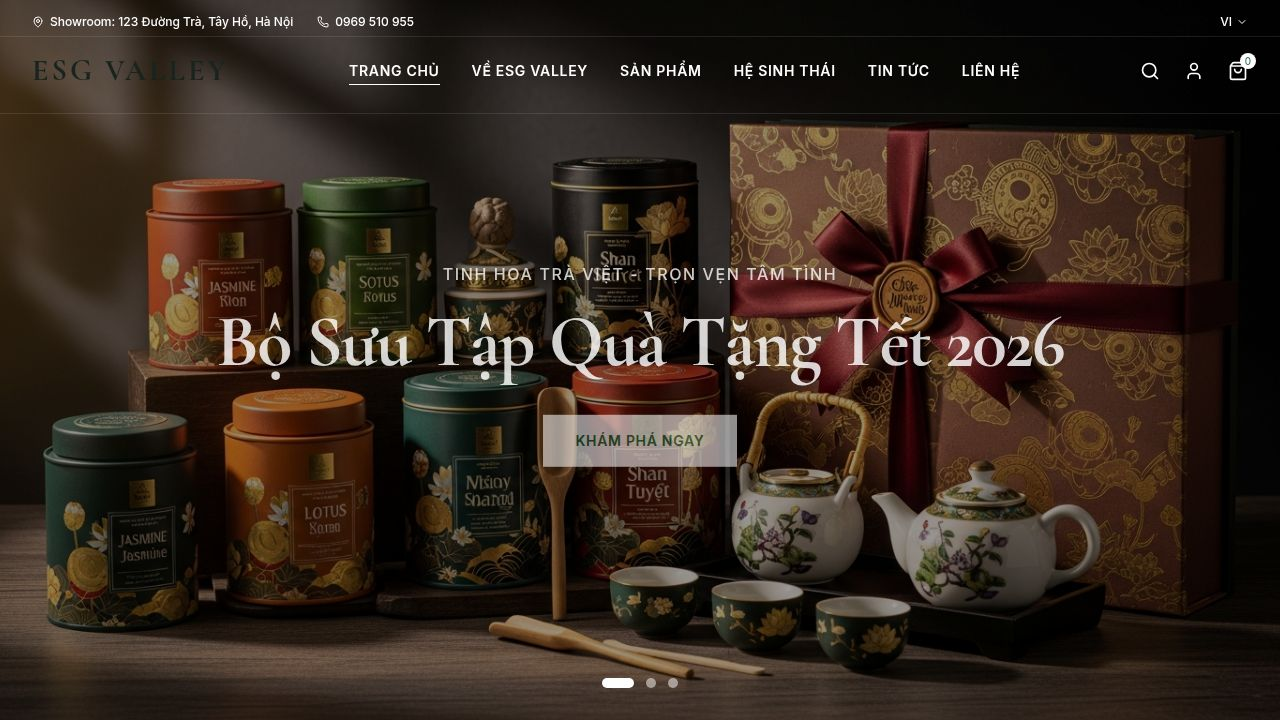
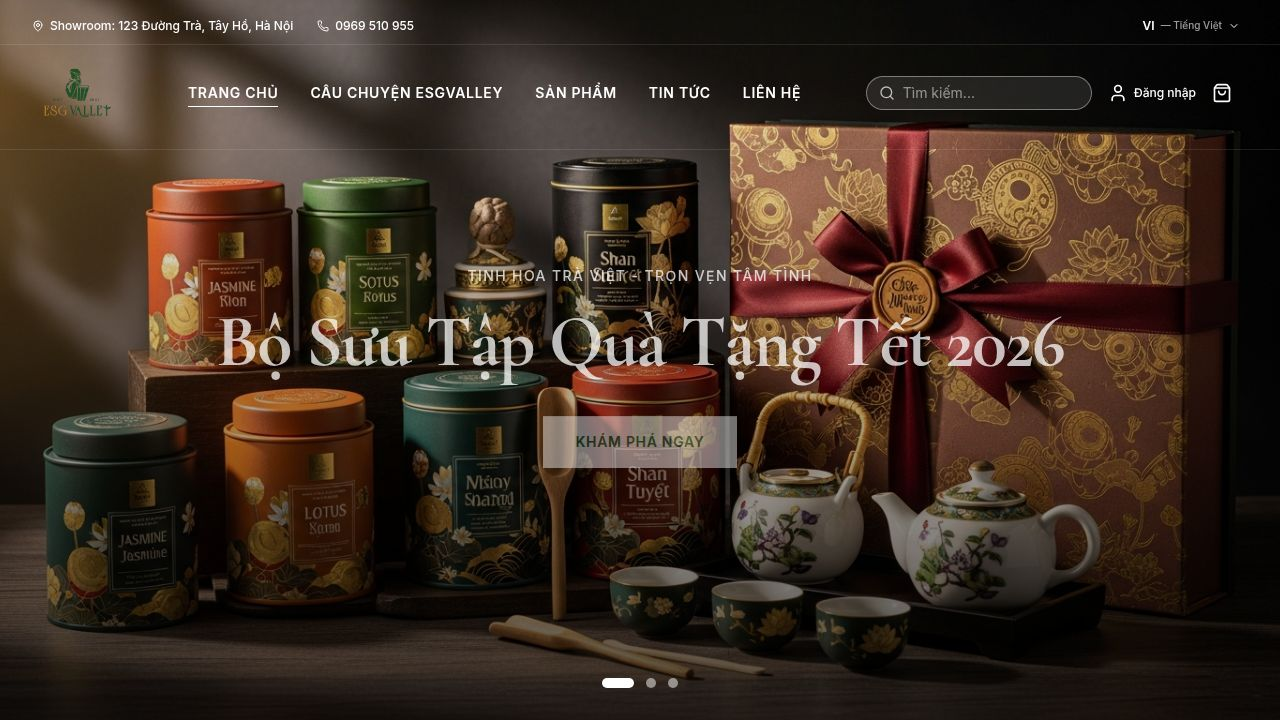
Add hover effect to display card details on image mouseover
Update Home.tsx to implement a new hover effect on image mosaic cards, revealing a styled card with title and description.

Replit-Commit-Author: Agent
Replit-Commit-Session-Id: 393418b7-ca91-409f-8b2f-f4fb9c09fb83
Replit-Commit-Checkpoint-Type: full_checkpoint
Replit-Commit-Event-Id: 2965d947-d1b5-4688-bf19-3bccabd1f1f4
Replit-Commit-Screenshot-Url: https://storage.googleapis.com/screenshot-production-us-central1/6f4f4c7e-fa0c-4de9-baeb-699de7e36ad3/393418b7-ca91-409f-8b2f-f4fb9c09fb83/BxhU3Tt
Replit-Helium-Checkpoint-Created: true

diff --git a/artifacts/esg-valley/src/pages/Home.tsx b/artifacts/esg-valley/src/pages/Home.tsx
@@ -261,10 +261,13 @@ export default function Home() {
                 className="w-full h-72 md:h-full object-cover group-hover:scale-105 transition-transform duration-500"
                 style={{ minHeight: "360px" }}
               />
-              <div className="absolute inset-0 bg-gradient-to-t from-black/60 via-transparent to-transparent" />
-              <div className="absolute bottom-5 left-5 right-5">
-                <p className="text-white font-display text-lg font-bold leading-snug">Vùng Nguyên Liệu</p>
-                <p className="text-white/70 text-xs mt-1">Nơi những búp chè non xanh bắt đầu hành trình</p>
+              <div className="absolute inset-0 bg-gradient-to-t from-black/40 via-transparent to-transparent group-hover:from-black/20 transition-all duration-500" />
+              <div className="absolute bottom-5 left-5 right-5 translate-y-2 group-hover:translate-y-0 transition-transform duration-400">
+                <div className="bg-[#FFF9C4]/95 rounded-xl p-4 shadow-lg opacity-0 group-hover:opacity-100 transition-opacity duration-400">
+                  <p className="text-primary font-display text-base font-bold leading-snug mb-1">Vùng Nguyên Liệu</p>
+                  <p className="text-foreground/80 text-xs leading-relaxed">Nơi những búp chè non xanh bắt đầu hành trình – đất trời và con người vùng cao cùng nhau nuôi dưỡng từng mầm non xanh mát.</p>
+                </div>
+                <p className="text-white font-display text-lg font-bold leading-snug group-hover:opacity-0 transition-opacity duration-300 absolute bottom-4 left-0">Vùng Nguyên Liệu</p>
               </div>
             </motion.div>
 
@@ -279,9 +282,13 @@ export default function Home() {
                   alt="Câu chuyện"
                   className="w-full h-44 object-cover group-hover:scale-105 transition-transform duration-500"
                 />
-                <div className="absolute inset-0 bg-gradient-to-t from-black/50 to-transparent" />
-                <div className="absolute bottom-4 left-4">
-                  <p className="text-white font-display text-base font-bold">Chế Biến Thủ Công</p>
+                <div className="absolute inset-0 bg-gradient-to-t from-black/40 to-transparent group-hover:from-black/20 transition-all duration-500" />
+                <div className="absolute bottom-3 left-3 right-3 translate-y-1 group-hover:translate-y-0 transition-transform duration-400">
+                  <div className="bg-[#FFF9C4]/95 rounded-xl p-3 shadow-lg opacity-0 group-hover:opacity-100 transition-opacity duration-400">
+                    <p className="text-primary font-display text-sm font-bold mb-1">Chế Biến Thủ Công</p>
+                    <p className="text-foreground/80 text-xs leading-relaxed">Từng công đoạn được thực hiện tỉ mỉ bởi đôi bàn tay thợ lành nghề, giữ trọn hương vị nguyên bản.</p>
+                  </div>
+                  <p className="text-white font-display text-base font-bold group-hover:opacity-0 transition-opacity duration-300 absolute bottom-3 left-0">Chế Biến Thủ Công</p>
                 </div>
               </div>
               <div className="relative rounded-sm overflow-hidden group flex-1">
@@ -290,9 +297,13 @@ export default function Home() {
                   alt="Câu chuyện 2"
                   className="w-full h-44 object-cover group-hover:scale-105 transition-transform duration-500"
                 />
-                <div className="absolute inset-0 bg-gradient-to-t from-black/50 to-transparent" />
-                <div className="absolute bottom-4 left-4">
-                  <p className="text-white font-display text-base font-bold">Nghệ Thuật Ướp Hương</p>
+                <div className="absolute inset-0 bg-gradient-to-t from-black/40 to-transparent group-hover:from-black/20 transition-all duration-500" />
+                <div className="absolute bottom-3 left-3 right-3 translate-y-1 group-hover:translate-y-0 transition-transform duration-400">
+                  <div className="bg-[#FFF9C4]/95 rounded-xl p-3 shadow-lg opacity-0 group-hover:opacity-100 transition-opacity duration-400">
+                    <p className="text-primary font-display text-sm font-bold mb-1">Nghệ Thuật Ướp Hương</p>
+                    <p className="text-foreground/80 text-xs leading-relaxed">Bí quyết ướp hương hoa tươi truyền thống tạo nên những tách trà thơm ngát, đậm đà bản sắc Việt.</p>
+                  </div>
+                  <p className="text-white font-display text-base font-bold group-hover:opacity-0 transition-opacity duration-300 absolute bottom-3 left-0">Nghệ Thuật Ướp Hương</p>
                 </div>
               </div>
             </motion.div>
@@ -308,10 +319,13 @@ export default function Home() {
                 className="w-full h-72 md:h-full object-cover group-hover:scale-105 transition-transform duration-500"
                 style={{ minHeight: "360px" }}
               />
-              <div className="absolute inset-0 bg-gradient-to-t from-black/60 via-transparent to-transparent" />
-              <div className="absolute bottom-5 left-5 right-5">
-                <p className="text-white font-display text-lg font-bold leading-snug">Di Sản & Văn Hóa</p>
-                <p className="text-white/70 text-xs mt-1">Gìn giữ bản sắc trà Việt trường tồn</p>
+              <div className="absolute inset-0 bg-gradient-to-t from-black/40 via-transparent to-transparent group-hover:from-black/20 transition-all duration-500" />
+              <div className="absolute bottom-5 left-5 right-5 translate-y-2 group-hover:translate-y-0 transition-transform duration-400">
+                <div className="bg-[#FFF9C4]/95 rounded-xl p-4 shadow-lg opacity-0 group-hover:opacity-100 transition-opacity duration-400">
+                  <p className="text-primary font-display text-base font-bold leading-snug mb-1">Di Sản & Văn Hóa</p>
+                  <p className="text-foreground/80 text-xs leading-relaxed">Gìn giữ bản sắc trà Việt trường tồn qua từng thế hệ – nơi văn hóa và thiên nhiên hòa quyện thành một.</p>
+                </div>
+                <p className="text-white font-display text-lg font-bold leading-snug group-hover:opacity-0 transition-opacity duration-300 absolute bottom-4 left-0">Di Sản & Văn Hóa</p>
               </div>
             </motion.div>
           </div>